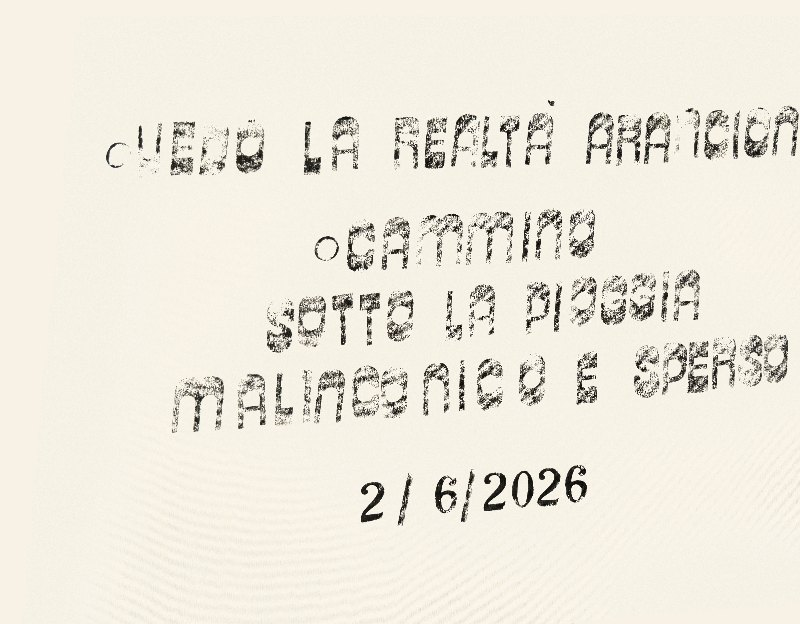
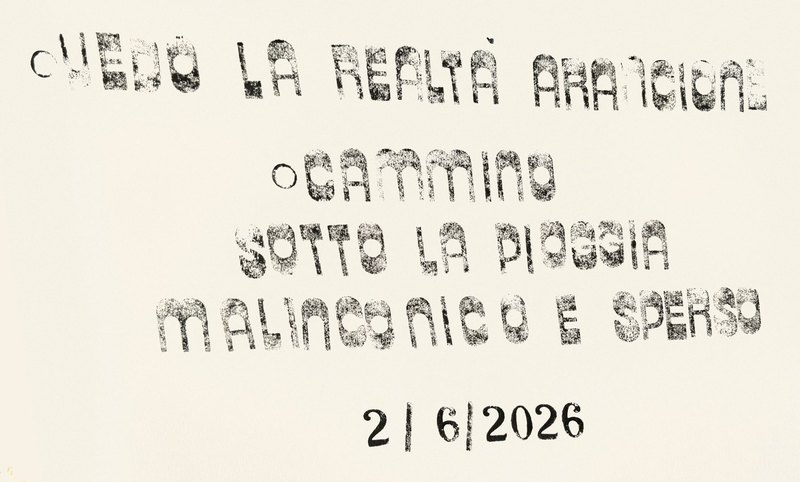
2/6/26: riprocessato dall'originale (testo intero, no bordi)

Changed region(s): [[0.1875, 0.3112, 1.0, 0.7469], [0.0312, 0.0622, 1.0, 0.2801], [0.4375, 0.7469, 0.75, 0.9336]]

diff --git a/index.html b/index.html
@@ -662,11 +662,11 @@ section#timbri{ padding-top: clamp(160px, 18vw, 240px); }
 <section class="page" id="timbri">
   <div class="gallery" id="gallery">
     <figure class="work">
-      <div class="work-frame" style="--ratio: 77.94%;">
+      <div class="work-frame" style="--ratio: 60.23%;">
         <img src="foto_definitive/Timbro_2026-06-02.jpg"
              srcset="foto_definitive/thumbs/Timbro_2026-06-02.jpg 800w, foto_definitive/Timbro_2026-06-02.jpg 1800w"
              sizes="(max-width: 720px) 92vw, 720px"
-             width="1800" height="1403"
+             width="1682" height="1013"
              alt="2/6/26" loading="lazy" decoding="async" />
       </div>
       <figcaption class="work-caption"><span class="work-date">2/6/26</span></figcaption>
